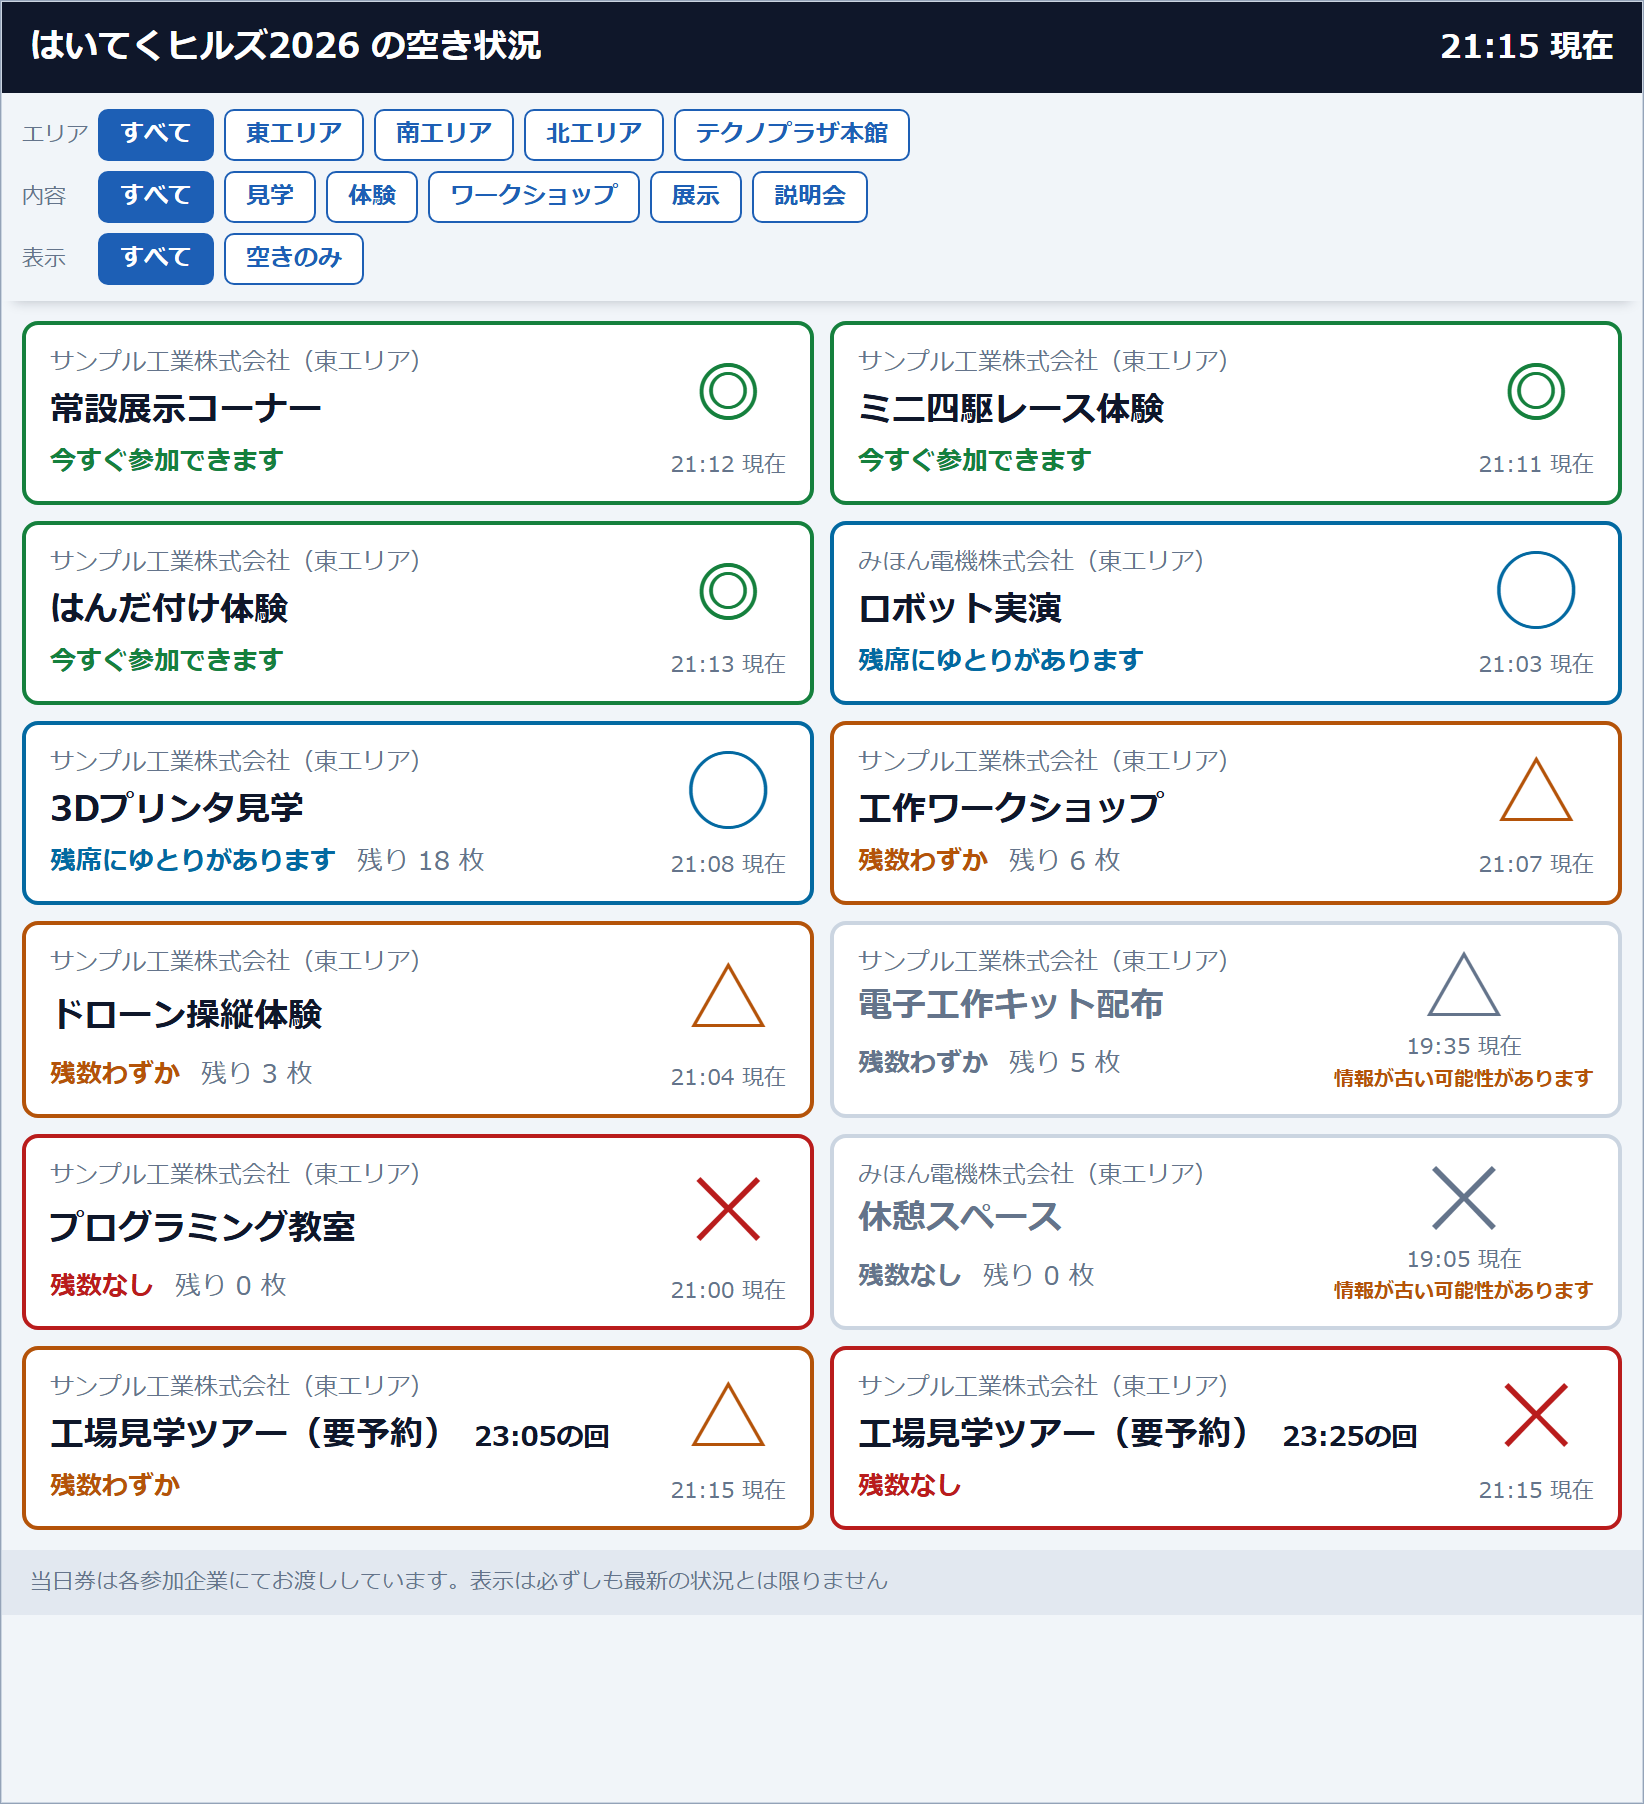
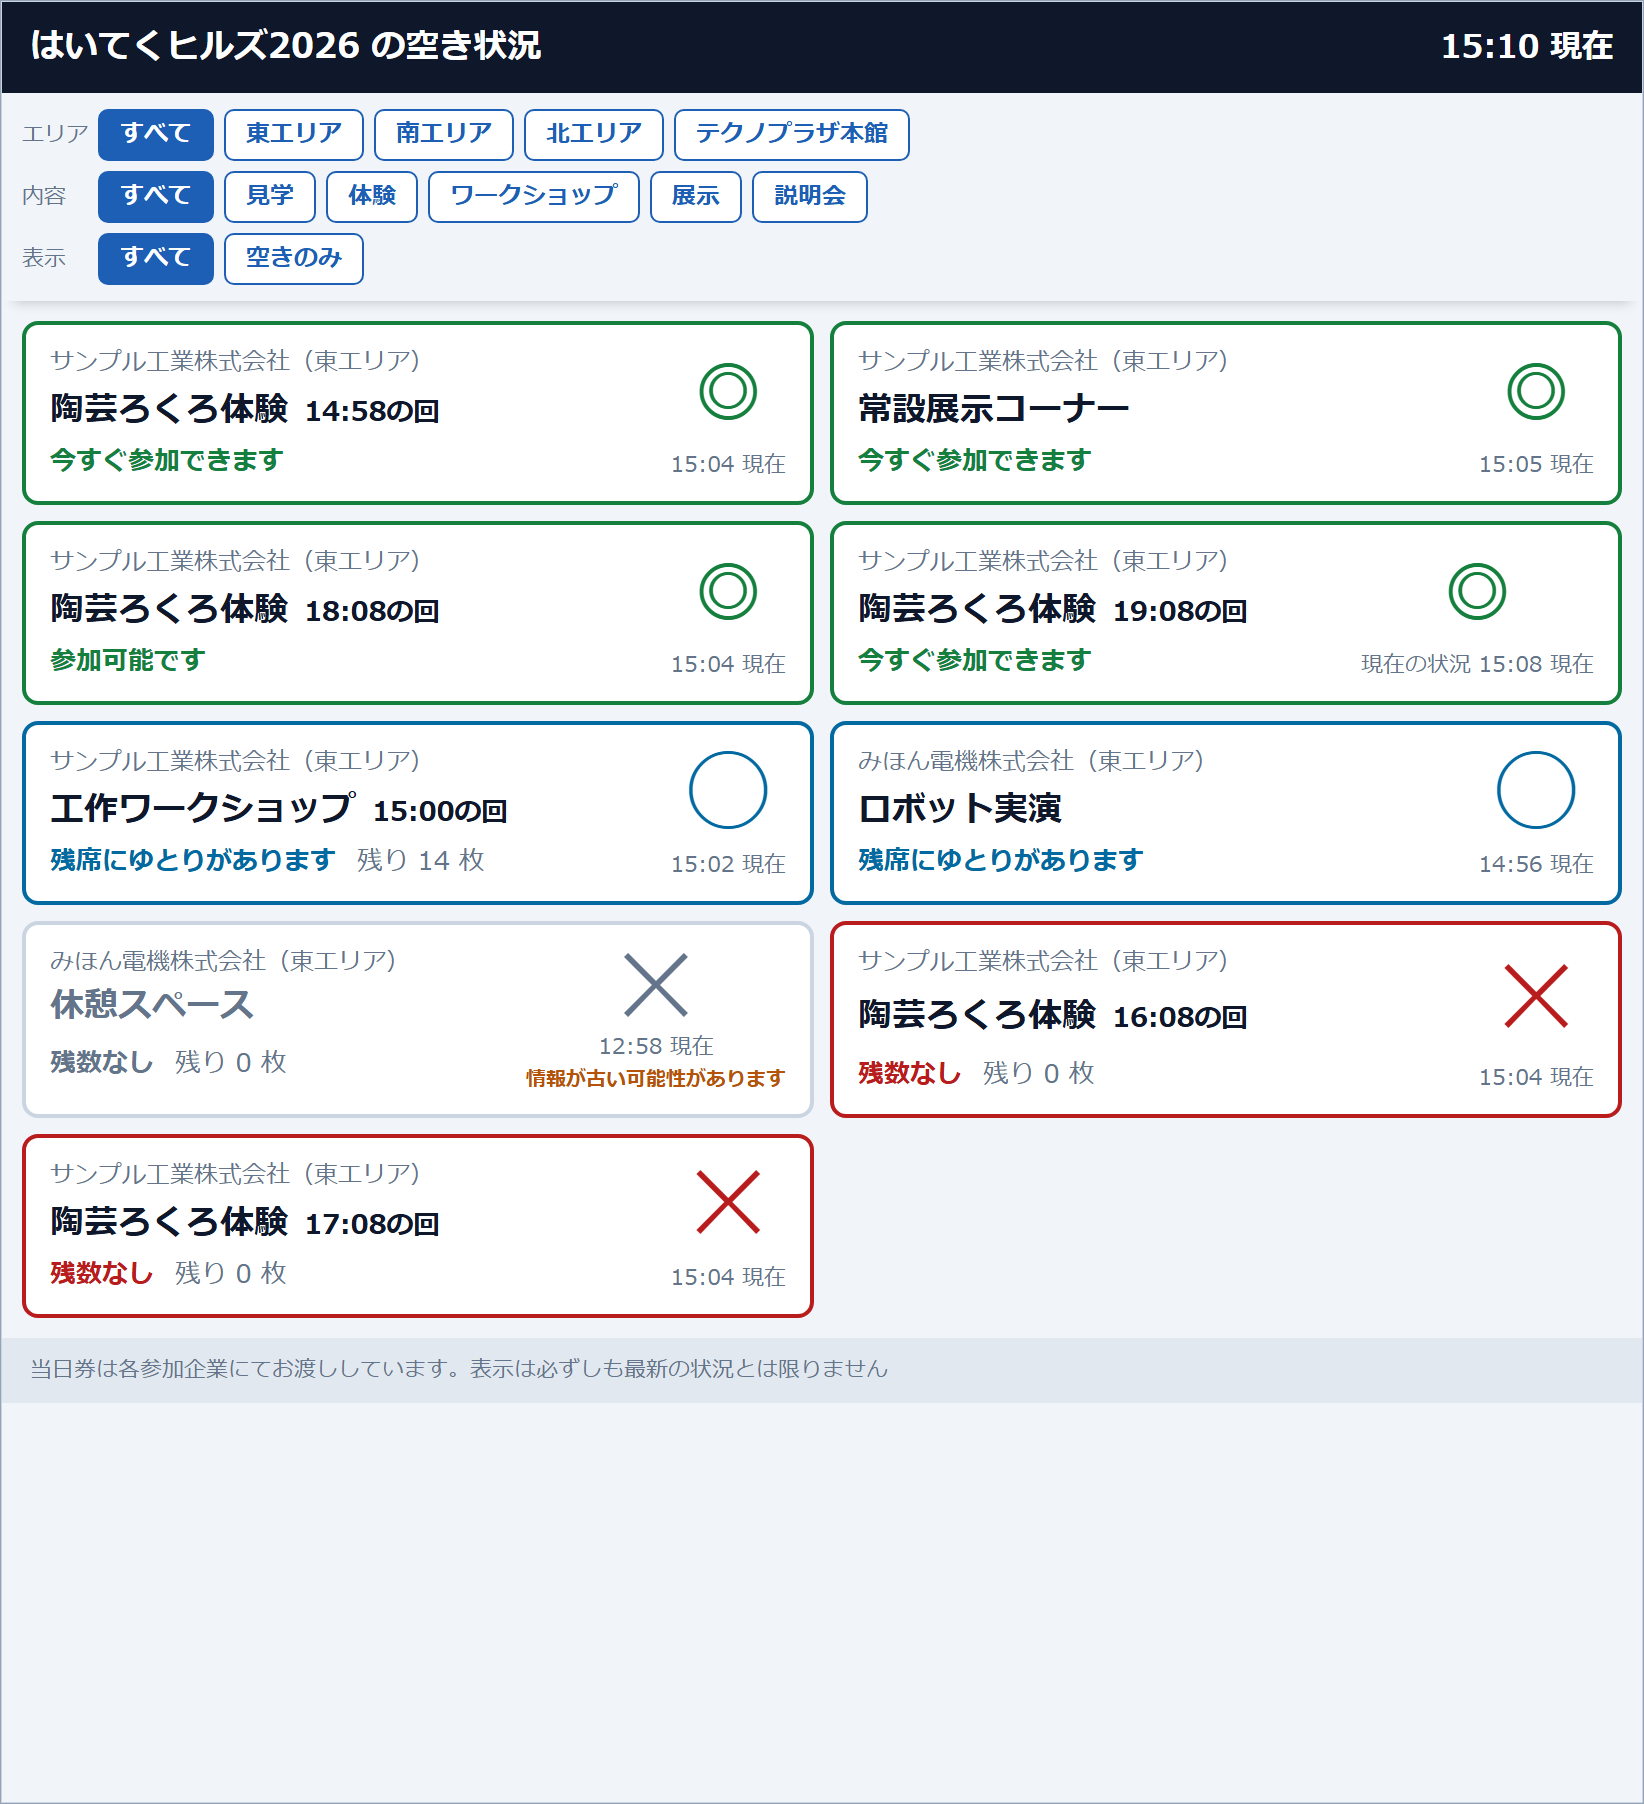
Stop saying "今すぐ" about a round at three o'clock, and pick rounds better
Two things about rounds that have not happened yet.

◎ on the 15:00 card read "今すぐ参加できます" at one in the afternoon, which
sends somebody across a hall two hours early. It says "参加可能です" now when
the round has not begun. Only ◎ changes: the other three never claimed a
moment. And a card showing the booth's state in place of a missing round
keeps the present tense, because that state really is about now - it is the
round it is standing in for that is in the future, not the report.

The bigger one: the board took each programme's earliest three rounds, so a
programme whose next three were full showed ✕ ✕ ✕ and hid the 15:00 round
that had room. A visitor at the board is asking "can I do this today", and
the answer was being cut off by the clock.

It now takes the next round, then the earliest rounds anybody can still get
into, then whatever fits. Same number of cards, chosen better - no extra
pages and no longer a cycle. The rounds that come back are not necessarily
consecutive, which is why every card names its own time.

Reverting the choosing to array_slice turns the new assertion red, which is
the case it was written for.

diff --git a/tests/test_vacancy.php b/tests/test_vacancy.php
@@ -97,9 +97,9 @@ try {
     // Another day, to prove the date filter does something - and three of
     // them, because a round that has not happened yet is the only kind the
     // board shows, and a test run at 16:00 must still have some.
-    fixture_create_session($tour, $NEXT . ' 10:00:00', $NEXT . ' 11:00:00', 20);
-    fixture_create_session($tour, $NEXT . ' 13:00:00', $NEXT . ' 14:00:00', 20);
-    fixture_create_session($tour, $NEXT . ' 15:00:00', $NEXT . ' 16:00:00', 20);
+    $n1 = fixture_create_session($tour, $NEXT . ' 10:00:00', $NEXT . ' 11:00:00', 20);
+    $n2 = fixture_create_session($tour, $NEXT . ' 13:00:00', $NEXT . ' 14:00:00', 20);
+    $n3 = fixture_create_session($tour, $NEXT . ' 15:00:00', $NEXT . ' 16:00:00', 20);
 
     // --- the marks -----------------------------------------------------------
     $assert(VacancyLevel::Open->mark() === '◎' && VacancyLevel::None->mark() === '✕',
@@ -467,6 +467,48 @@ try {
             'rounds= caps how many of a programme appear, so the wall stays short enough to read');
         $assert(count($service->boardRows($NEXT, 99)) > count($service->boardRows($NEXT, 1)),
             'and raising it shows more of them again');
+    } finally {
+        Db::execute('UPDATE companies SET is_published = 0 WHERE id = ?', [$companyA]);
+    }
+
+    // --- a mark that cannot say "now" ------------------------------------------
+    $assert(VacancyLevel::Open->label() === '今すぐ参加できます',
+        '◎ on something happening now says so');
+    $assert(VacancyLevel::Open->label(false) === '参加可能です',
+        'but on a round that has not begun it does not - "今すぐ" would send somebody two hours early');
+    $assert(VacancyLevel::Ample->label(false) === VacancyLevel::Ample->label()
+        && VacancyLevel::Few->label(false) === VacancyLevel::Few->label()
+        && VacancyLevel::None->label(false) === VacancyLevel::None->label(),
+        'and the other three read the same either way, so they say the same thing');
+
+    // --- which rounds are worth the cards ----------------------------------------
+    // Taking the earliest three is the obvious rule and the wrong one: a
+    // programme whose next rounds are full showed ✕ ✕ ✕ and hid the round
+    // that had room, which is the one thing a visitor came to find out.
+    Db::execute('UPDATE companies SET is_published = 1 WHERE id = ?', [$companyA]);
+    try {
+        $repo->add($tour, $n1, 'none', 0, null, 'test:vacancy', $NEXT . ' 09:00:00');
+        $repo->add($tour, $n2, 'none', 0, null, 'test:vacancy', $NEXT . ' 09:00:00');
+        $repo->add($tour, $n3, 'open', null, null, 'test:vacancy', $NEXT . ' 09:00:00');
+
+        $mine = static fn (int $limit): array => $idsOf(array_values(array_filter(
+            $service->boardRows($NEXT, $limit),
+            static fn (array $r): bool => (int) ($r['event_id'] ?? 0) === $tour
+        )));
+
+        $assert($mine(2) === [$n1, $n3],
+            'two cards go to the next round and the earliest one with room, not the next two');
+        $assert($mine(3) === [$n1, $n2, $n3],
+            'and with room for all of them nothing is dropped');
+        $assert($mine(1) === [$n1],
+            'one card still goes to the next round - what is happening now comes first');
+
+        $flags = [];
+        foreach ($service->boardRows($NEXT, 3) as $row) {
+            $flags[(int) $row['id']] = $row['starts_later'] ?? null;
+        }
+        $assert(($flags[$n1] ?? null) === true,
+            'a round on another day has not begun, so its ◎ cannot claim to be about now');
     } finally {
         Db::execute('UPDATE companies SET is_published = 0 WHERE id = ?', [$companyA]);
     }

diff --git a/src/Service/VacancyService.php b/src/Service/VacancyService.php
@@ -143,6 +143,9 @@ final class VacancyService
             $session['in_progress'] = (string) $session['starts_at'] <= $now
                 && $now < (string) $session['ends_at'];
 
+            // Whether a mark on this row can honestly say "now".
+            $session['starts_later'] = (string) $session['starts_at'] > $now;
+
             $out[] = $session;
         }
         return $out;
@@ -325,12 +328,65 @@ final class VacancyService
                 continue;
             }
 
-            foreach (array_slice($mine, 0, max(1, $rounds)) as $i => $session) {
-                $session['board_kind'] = $i === 0 ? 'next' : 'later';
+            $nextId = (int) $mine[0]['id'];
+            foreach ($this->chooseRounds($mine, $rounds) as $session) {
+                $session['board_kind'] = (int) $session['id'] === $nextId ? 'next' : 'later';
                 $out[] = $session;
             }
         }
         return $out;
+    }
+
+    /**
+     * Which of a programme's rounds are worth the cards it gets.
+     *
+     * Taking the earliest $limit of them is the obvious rule and the wrong
+     * one: a programme whose next three rounds are all full showed three ✕
+     * and hid the 15:00 round that had room - the single thing a visitor
+     * came to the board to find out. Somebody standing there is asking "can
+     * I do this today", and the answer was being cut off.
+     *
+     * So: the next round always, because that is what is happening now;
+     * then the earliest rounds anybody can still get into; then whatever
+     * else fits. No extra cards - the same number, chosen better.
+     *
+     * The rounds that come back are not necessarily consecutive, which is
+     * why every card names its own time.
+     *
+     * @param array<int, array<string, mixed>> $rounds in time order
+     * @return array<int, array<string, mixed>> in time order
+     */
+    private function chooseRounds(array $rounds, int $limit): array
+    {
+        $limit = max(1, $limit);
+        if (count($rounds) <= $limit) {
+            return $rounds;
+        }
+
+        $hasRoom = static function (array $round): bool {
+            $report = $round['report'] ?? $round['fallback'] ?? null;
+            return $report !== null && $report['level'] !== VacancyLevel::None;
+        };
+
+        $chosen = [0 => $rounds[0]];
+
+        foreach ($rounds as $i => $round) {
+            if (count($chosen) >= $limit) {
+                break;
+            }
+            if ($i !== 0 && $hasRoom($round)) {
+                $chosen[$i] = $round;
+            }
+        }
+        foreach ($rounds as $i => $round) {
+            if (count($chosen) >= $limit) {
+                break;
+            }
+            $chosen[$i] ??= $round;
+        }
+
+        ksort($chosen);  // back into clock order; only the choosing was not
+        return array_values($chosen);
     }
 
     /**

diff --git a/templates/pub/vacancy.php b/templates/pub/vacancy.php
@@ -24,7 +24,7 @@ $tab = static fn (string $v): string => url('/vacancy') . '?' . http_build_query
  * down a column - and a column of marks that do not line up is the one thing
  * that makes that impossible.
  */
-$status = static function (?array $report, string $prefix = ''): string {
+$status = static function (?array $report, string $prefix = '', bool $present = true): string {
     if ($report === null) {
         // Not "vac-state--none": ✕ already owns that value, and an unreported
         // booth must not be dressed up as a full one.
@@ -38,7 +38,7 @@ $status = static function (?array $report, string $prefix = ''): string {
         $out .= '<span class="vac-label">' . e($prefix) . '</span>';
     }
     $out .= '<span class="vac-mark">' . e($level->mark()) . '</span>'
-          . '<span class="vac-words">' . e($level->label()) . '</span>';
+          . '<span class="vac-words">' . e($level->label($present)) . '</span>';
     if ($report['remaining'] !== null) {
         $out .= '<span class="vac-remaining">残り ' . (int) $report['remaining'] . ' 枚</span>';
     }
@@ -129,7 +129,7 @@ $status = static function (?array $report, string $prefix = ''): string {
       </div>
       <div class="vac-row__status">
         <?php if ($row['report'] !== null): ?>
-          <?= $status($row['report']) ?>
+          <?= $status($row['report'], '', ($row['starts_later'] ?? false) === false) ?>
         <?php elseif ($row['fallback'] !== null): ?>
           <?php /* Nothing about this slot. The booth's own state is still
                    worth showing, under a label that says what it is. */ ?>

diff --git a/src/Domain/VacancyLevel.php b/src/Domain/VacancyLevel.php
@@ -41,10 +41,19 @@ enum VacancyLevel: string
         };
     }
 
-    public function label(): string
+    /**
+     * @param bool $present Whether the mark is about this moment. A round
+     *        that has not begun is the exception: ◎ there means "there will
+     *        be room", and "今すぐ参加できます" on the 15:00 card at one in
+     *        the afternoon sends somebody across a hall two hours early.
+     *
+     *        Only ◎ claims a moment. The other three read the same either
+     *        way, so they are the same string.
+     */
+    public function label(bool $present = true): string
     {
         return match ($this) {
-            self::Open  => '今すぐ参加できます',
+            self::Open  => $present ? '今すぐ参加できます' : '参加可能です',
             self::Ample => '残席にゆとりがあります',
             self::Few   => '残数わずか',
             self::None  => '残数なし',
